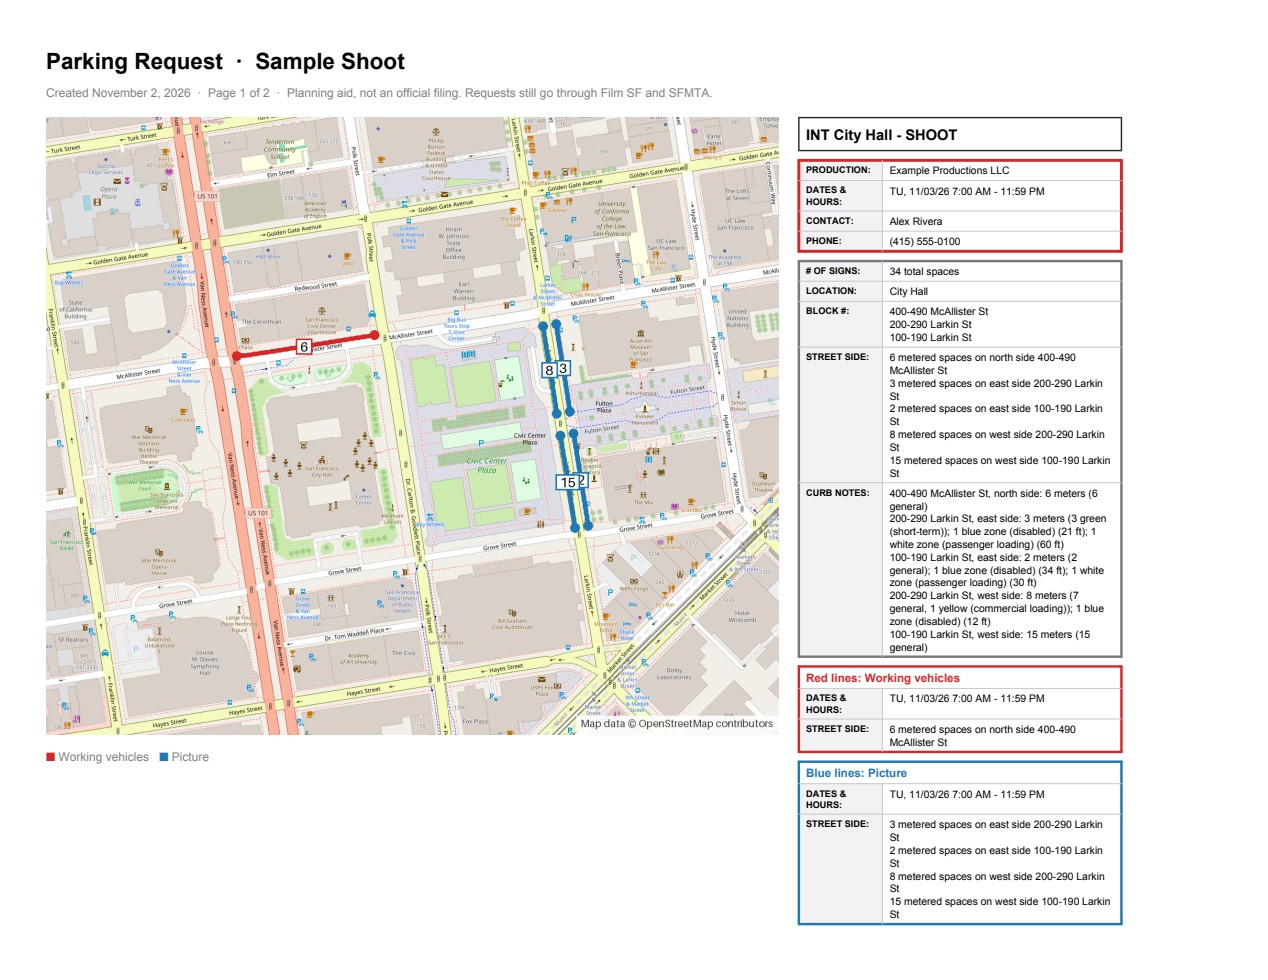
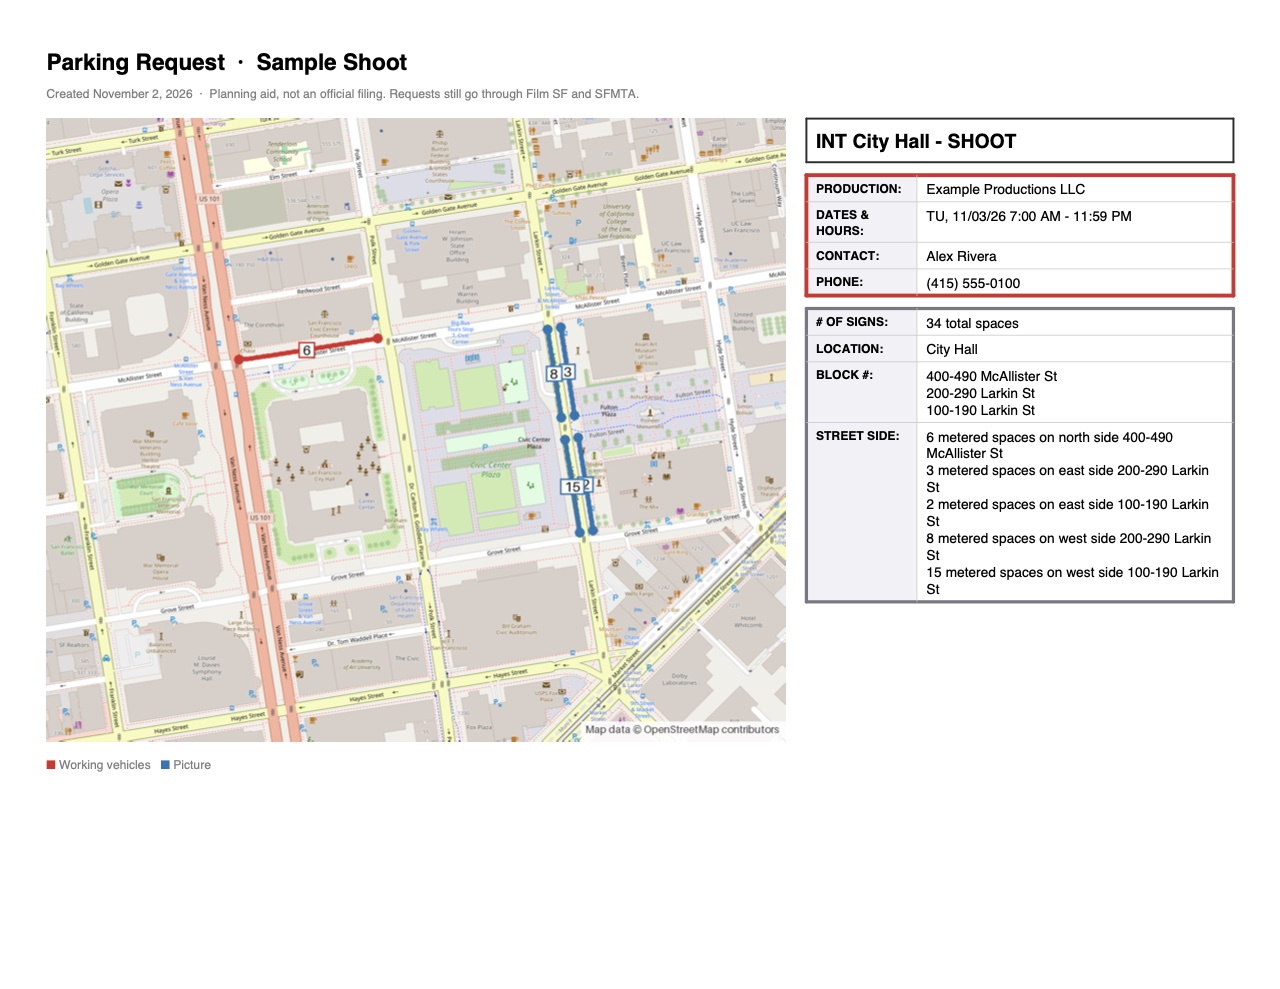
PDF pages as lean as Film SF's: no curb notes, each schedule once, color boxes only for dates, alley-split blocks on one line; 6th St not 06th; CSV import sets the common schedule as the location's dates; top bar buttons keep their width

diff --git a/app.py b/app.py
@@ -37,7 +37,7 @@ if getattr(sys, "_sf_core_version", None) != code_version():
     sys._sf_core_version = code_version()
 
 from core.basemaps import OSM  # noqa: E402
-from core.curbdata import NOTHING_ON_RECORD, CurbData  # noqa: E402
+from core.curbdata import CurbData  # noqa: E402
 from core.bulk import EXAMPLE as CSV_EXAMPLE, StreetRoutes, plan  # noqa: E402
 from core.curbs import CurbZoner, place_name, place_names  # noqa: E402
 from core.map_tools import MapTools  # noqa: E402
@@ -46,7 +46,7 @@ from core.request import (DEFAULT_COLOR, LINE_COLORS, REQUEST_FIELDS,  # noqa: E
                           STAR, TEXT, TEXT_COLOR, TEXT_PX, Arrow, Line, Marker, Request,
                           format_phone, text_size)
 from core.streets import StreetIndex  # noqa: E402
-from core.summary import (METERS, PICTURE, USES, WORKING, Window, ZoneRequest, by_color,  # noqa: E402
+from core.summary import (METERS, PICTURE, USES, WORKING, Window, ZoneRequest,  # noqa: E402
                           dates_and_hours, summarize)
 
 SF_CENTER = [37.7749, -122.4194]
@@ -234,8 +234,7 @@ def location_page(req, loc):
     zones, ids, colors, rows = location_zones(loc)
     if not zones:
         return None
-    asks = [ZoneRequest(z.block, z.side, int(r["Spaces"] or 1), r["Use"], r["Meters"],
-                        loc.windows_for(zid), "" if r["Curb"] == NOTHING_ON_RECORD else r["Curb"] or "")
+    asks = [ZoneRequest(z.block, z.side, int(r["Spaces"] or 1), r["Use"], r["Meters"], loc.windows_for(zid))
             for z, zid, r in zip(zones, ids, rows)]
     drawn = tuple((tuple(z.points), c, str(a.spaces)) for z, c, a in zip(zones, colors, asks))
     markers = tuple((m.kind, tuple(m.point), m.text, m.size, m.color) for m in loc.markers
@@ -248,22 +247,19 @@ def location_page(req, loc):
         if a.use not in legend[c]:
             legend[c].append(a.use)
     legend = [(" / ".join(uses), c) for c, uses in legend.items()]
-    # The boxes from the Film SF slides: who (red), where (grey), then one per line color.
-    summary = summarize(asks)
+    # The boxes from the Film SF slides: who (red), where (grey), then one per line color
+    # when the colors have different dates and hours.
+    summary = summarize(asks, colors)
     boxes = [
         Box([("Production", req.info["Production"]), ("Dates & hours", summary["Dates & hours"]),
              ("Contact", loc.info["Contact"]), ("Phone", loc.info["Phone"]),
              ("Email", req.info["Email"]), ("Film SF permit #", req.info["Film SF permit #"])],
             WHO_BORDER, width=1.2),
         Box([("# of signs", summary["# of signs"]), ("Location", loc.info["Location"]),
-             ("Block #", summary["Block #"]), ("Street side", summary["Street side"]),
-             ("Curb notes", summary["Curb notes"])], WHERE_BORDER),
+             ("Block #", summary["Block #"]), ("Street side", summary["Street side"])], WHERE_BORDER),
     ]
-    groups = by_color(asks, colors)
-    if len(groups) > 1:
-        for c, uses, dates, sides in groups:
-            boxes.append(Box([("Dates & hours", dates), ("Street side", sides)], rgb(c),
-                             f"{COLOR_NAMES.get(c, '')} lines: {' / '.join(uses)}"))
+    boxes += [Box([("Dates & hours", dates)], rgb(c), f"{COLOR_NAMES.get(c, '')} lines: {' / '.join(uses)}")
+              for c, uses, dates in summary["By color"] if dates]
     return drawn, arrows, markers, boxes, legend
 
 
@@ -324,15 +320,15 @@ with steps_col:
     st.session_state.step_pick = STEPS[st.session_state.step]
     st.segmented_control("Step", STEPS, key="step_pick", on_change=picked_step,
                          label_visibility="collapsed")
-with file_col:
-    open_col, save_col = st.columns(2)
-    with open_col.popover("Open", use_container_width=True):
+# A row that keeps both buttons at their own width, wrapping instead of squeezing their labels.
+with file_col.container(horizontal=True, horizontal_alignment="right"):
+    with st.popover("Open"):
         st.file_uploader("Open a saved request (.json)", type="json", key=f"g{gen}-open",
                          on_change=open_request, args=(f"g{gen}-open",))
-    save_col.download_button("Save", req.to_json(), mime="application/json", use_container_width=True,
-                             file_name=f"{slug(project) or 'sf-parking-request'}.json",
-                             help="Download everything entered so far. Nothing is kept when the "
-                                  "page is closed, so save to come back later.")
+    st.download_button("Save", req.to_json(), mime="application/json",
+                       file_name=f"{slug(project) or 'sf-parking-request'}.json",
+                       help="Download everything entered so far. Nothing is kept when the "
+                            "page is closed, so save to come back later.")
 if st.session_state.get("open_error"):
     st.error(st.session_state.pop("open_error"))
 st.divider()
@@ -382,16 +378,14 @@ def add_planned(planned, text):
                 loc_.zones.setdefault(zid, {})["Use"] = p.use
                 if p.windows:
                     timed.setdefault(loc_.id, {}).setdefault(zid, []).extend(p.windows)
-    # Times shared by every imported zone become the location's dates (if it has none yet);
-    # otherwise each zone keeps its own.
+    # The times most imported zones share become the location's dates (if it has none yet);
+    # zones with other times keep their own.
     for loc_ in targets.values():
         zone_times = timed.get(loc_.id, {})
         schedules = list(zone_times.values())
-        unset = not any(w.date or w.start or w.end for w in loc_.dates)
-        if schedules and unset and all(ws == schedules[0] for ws in schedules):
-            loc_.dates = schedules[0]
-        else:
-            loc_.windows.update(zone_times)
+        if schedules and not any(w.date or w.start or w.end for w in loc_.dates):
+            loc_.dates = max(schedules, key=schedules.count)
+        loc_.windows.update({zid: ws for zid, ws in zone_times.items() if ws != loc_.dates})
     go(1)  # show the imported curbs on the map
     # Start every widget fresh from the request, as when a file is opened.
     st.session_state.current = first.id
@@ -419,7 +413,7 @@ def csv_import():
         st.warning(problem + ". This row will be skipped.")
     if planned:
         st.dataframe([{"Location": p.location or "(open location)", "Curb": p.label, "Use": p.use,
-                       "Blocks": ", ".join(z.block for line in p.lines for z in zoner().zones(line)),
+                       "Blocks": ", ".join(dict.fromkeys(z.block for line in p.lines for z in zoner().zones(line))),
                        "Dates & hours": "; ".join(dates_and_hours(w) for w in p.windows) or "-"}
                       for p in planned], hide_index=True, use_container_width=True)
         again = st.session_state.get("csv_done") == csv_text

diff --git a/tests/test_summary.py b/tests/test_summary.py
@@ -2,7 +2,7 @@
 
 from datetime import date, time
 
-from core.summary import PICTURE, Window, ZoneRequest, by_color, dates_and_hours, street_side, summarize
+from core.summary import PICTURE, Window, ZoneRequest, dates_and_hours, street_side, summarize
 
 
 def test_street_side_matches_film_sf_wording():
@@ -30,8 +30,9 @@ def test_shared_schedule_listed_once():
     assert s["# of signs"] == "29 total spaces"
     assert s["Block #"] == ["800-890 Grant Ave", "700-790 Clay St"]
     assert s["Dates & hours"] == ["WE, 11/04/26 7:00 AM - 10:00 PM"]
-    assert len(s["Street side"]) == 3
-    assert s["Curb notes"] == []
+    # Two pieces of one block side (split by an alley) are one line, as Film SF writes it.
+    assert s["Street side"] == ["23 spaces on west side 800-890 Grant Ave", "6 spaces on north side 700-790 Clay St"]
+    assert s["By color"] == []
 
 
 def test_several_windows_and_different_schedules():
@@ -41,30 +42,26 @@ def test_several_windows_and_different_schedules():
                        Window(date(2026, 11, 4), time(7), time(19))]
     zones = [ZoneRequest("200-290 Harriet St", "west", 2, windows=prep_shoot_wrap),
              ZoneRequest("400-450 6th St", "west", 8, windows=[Window(date(2026, 11, 3), time(7), time(23, 59))])]
-    assert summarize(zones)["Dates & hours"] == [
-        "200-290 Harriet St, west side: MO, 11/02/26 7:00 AM - 7:00 PM; "
+    # Same line color: each schedule says which blocks it is for.
+    assert summarize(zones, ["red", "red"])["Dates & hours"] == [
+        "200-290 Harriet St (west): MO, 11/02/26 7:00 AM - 7:00 PM; "
         "TU, 11/03/26 7:00 AM - 11:59 PM; WE, 11/04/26 7:00 AM - 7:00 PM",
-        "400-450 6th St, west side: TU, 11/03/26 7:00 AM - 11:59 PM",
+        "400-450 6th St (west): TU, 11/03/26 7:00 AM - 11:59 PM",
     ]
+    # Line colors tell them apart: each line once, and a box per color, like the slides.
+    s = summarize(zones, ["green", "red"])
+    assert s["Dates & hours"] == ["MO, 11/02/26 7:00 AM - 7:00 PM", "TU, 11/03/26 7:00 AM - 11:59 PM",
+                                  "WE, 11/04/26 7:00 AM - 7:00 PM"]
+    assert [(c, len(d)) for c, _, d in s["By color"]] == [("green", 3), ("red", 1)]
 
 
 def test_no_dates_yet():
     assert summarize([ZoneRequest("x", "north", 1, windows=[Window()])])["Dates & hours"] == []
 
 
-def test_curb_notes():
-    z = ZoneRequest("800-890 Grant Ave", "west", 12, curb="12 meters (7 general, 5 yellow (commercial loading))")
-    assert summarize([z])["Curb notes"] == [
-        "800-890 Grant Ave, west side: 12 meters (7 general, 5 yellow (commercial loading))"]
-
-
-def test_by_color_groups_zones_like_the_slides():
+def test_same_schedule_needs_no_color_boxes():
     wed = [Window(date(2026, 11, 4), time(7), time(22))]
     zones = [ZoneRequest("800-890 Grant Ave", "west", 12, windows=wed),
-             ZoneRequest("800-890 Washington St", "south", 4, use=PICTURE, windows=wed),
-             ZoneRequest("700-790 Clay St", "north", 6, windows=wed)]
-    groups = by_color(zones, ["#d62728", "#1f77b4", "#d62728"])
-    assert [(c, uses) for c, uses, _, _ in groups] == [("#d62728", ["Working vehicles"]),
-                                                       ("#1f77b4", ["Picture"])]
-    assert groups[0][2] == ["WE, 11/04/26 7:00 AM - 10:00 PM"]
-    assert groups[0][3] == ["12 spaces on west side 800-890 Grant Ave", "6 spaces on north side 700-790 Clay St"]
+             ZoneRequest("800-890 Washington St", "south", 4, use=PICTURE, windows=wed)]
+    s = summarize(zones, ["#d62728", "#1f77b4"])
+    assert s["Dates & hours"] == ["WE, 11/04/26 7:00 AM - 10:00 PM"] and s["By color"] == []

diff --git a/core/summary.py b/core/summary.py
@@ -25,7 +25,6 @@ class ZoneRequest:
     use: str = WORKING
     meters: str = "Not sure"
     windows: list = field(default_factory=list)  # [Window, ...]
-    curb: str = ""  # meters, driveways and color zones on this stretch
 
 
 def clock(t):
@@ -62,32 +61,48 @@ def unique(items):
     return list(dict.fromkeys(i for i in items if i))
 
 
-def summarize(zones):
-    """The table fields of a Film SF parking request, in the order they appear there."""
-    hours = [zone_hours(z) for z in zones]
-    if len({tuple(h) for h in hours}) <= 1:
-        # Every zone has the same schedule: list it once.
-        dates = hours[0] if hours else []
+def street_sides(zones):
+    """Street side lines. Pieces of one block side (an alley can split a block in two) are
+    added up into one line, as Film SF writes them."""
+    totals = {}
+    for z in zones:
+        key = (z.block, z.side, z.meters)
+        totals[key] = totals.get(key, 0) + z.spaces
+    return [street_side(ZoneRequest(block, side, n, meters=m)) for (block, side, m), n in totals.items()]
+
+
+def schedules(zones):
+    """{(dates & hours lines): [zones with that schedule]}, in first-seen order."""
+    out = {}
+    for z in zones:
+        out.setdefault(tuple(zone_hours(z)), []).append(z)
+    return out
+
+
+def summarize(zones, colors=None):
+    """The table fields of a Film SF parking request, in the order they appear there, plus
+    "By color": [(color, uses, dates & hours lines), ...] for the color-matched boxes on the
+    Film SF slides, when line colors tell the schedules apart."""
+    groups = {k: v for k, v in schedules(zones).items() if k}
+    by_color = []
+    if len(groups) <= 1:
+        dates = list(next(iter(groups), []))
     else:
-        # Schedules differ: say which zone each one belongs to.
-        dates = [f"{z.block}, {z.side} side: " + "; ".join(h) for z, h in zip(zones, hours) if h]
+        per_color = {}
+        for z, c in zip(zones, colors or []):
+            per_color.setdefault(c, []).append(z)
+        if colors and all(len(schedules(zs)) == 1 for zs in per_color.values()):
+            # Each line color has one schedule: list the schedules once, and the colored
+            # boxes say which goes with which lines.
+            dates = unique(line for s in groups for line in s)
+            by_color = [(c, unique(z.use for z in zs), zone_hours(zs[0])) for c, zs in per_color.items()]
+        else:
+            dates = [", ".join(unique(f"{z.block} ({z.side})" for z in zs)) + ": " + "; ".join(s)
+                     for s, zs in groups.items()]
     return {
         "# of signs": f"{sum(z.spaces for z in zones)} total spaces",
         "Block #": unique(z.block for z in zones),
-        "Street side": [street_side(z) for z in zones],
+        "Street side": street_sides(zones),
         "Dates & hours": dates,
-        "Curb notes": [f"{z.block}, {z.side} side: {z.curb}" for z in zones if z.curb],
+        "By color": by_color,
     }
-
-
-def by_color(zones, colors):
-    """Zones grouped by line color, for the color-matched boxes on the Film SF slides:
-    [(color, uses, dates & hours lines, street side lines), ...] in first-drawn order."""
-    groups = {}
-    for z, c in zip(zones, colors):
-        groups.setdefault(c, []).append(z)
-    out = []
-    for c, group in groups.items():
-        s = summarize(group)
-        out.append((c, unique(z.use for z in group), s["Dates & hours"], s["Street side"]))
-    return out

diff --git a/core/streets.py b/core/streets.py
@@ -30,9 +30,9 @@ def to_latlon(x, y):
 
 
 def pretty_street(name):
-    """"VALENCIA ST" -> "Valencia St", "18TH ST" -> "18th St", "O'FARRELL ST" -> "O'Farrell St"."""
+    """"VALENCIA ST" -> "Valencia St", "06TH ST" -> "6th St", "O'FARRELL ST" -> "O'Farrell St"."""
     words = []
-    for w in name.split():
+    for w in re.sub(r"\b0+(\d)", r"\1", name).split():
         if re.fullmatch(r"\d+(ST|ND|RD|TH)", w):
             words.append(w.lower())
         elif w.startswith("MC") and len(w) > 2:
@@ -123,7 +123,7 @@ class StreetIndex:
         number = {n: i for i, n in enumerate(names)}
         nodes = [[[number[n] for n in self.node_names[c]], *(round(v, 5) for v in to_latlon(x, y))]
                  for c, (x, y) in zip(self.int_cnns, self.int_xy)]
-        return {"streets": [[pretty_street(re.sub(r"\b0+(\d)", r"\1", n)), street_key(n)] for n in names],
+        return {"streets": [[pretty_street(n), street_key(n)] for n in names],
                 "nodes": nodes}
 
     def cross_streets(self, node_cnn, own_street):
